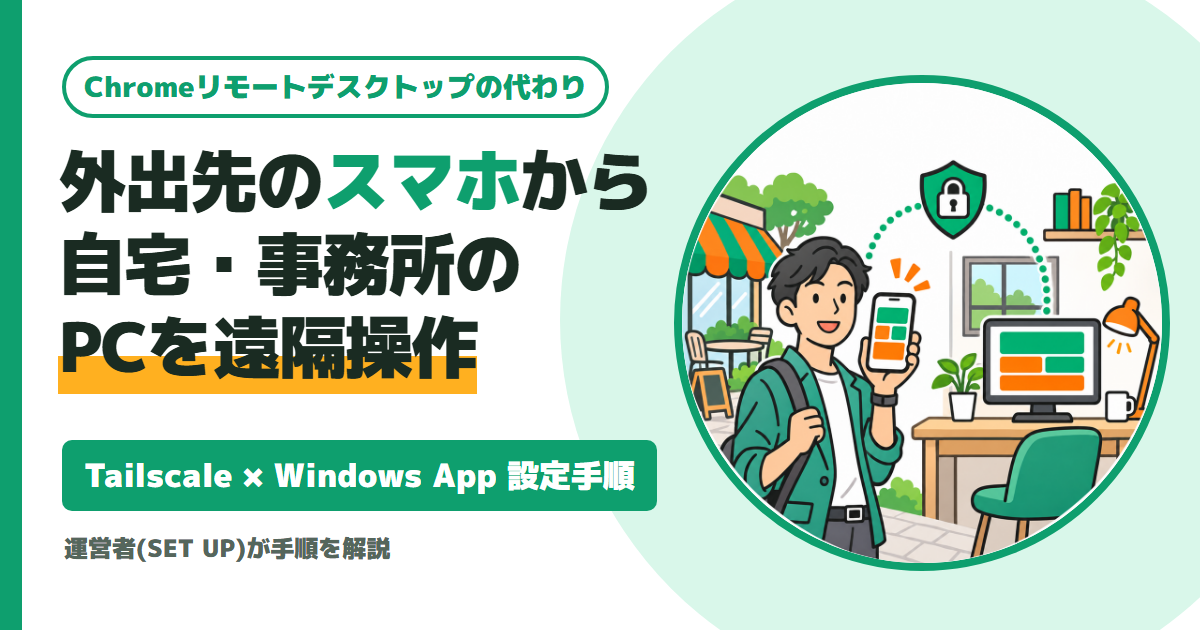
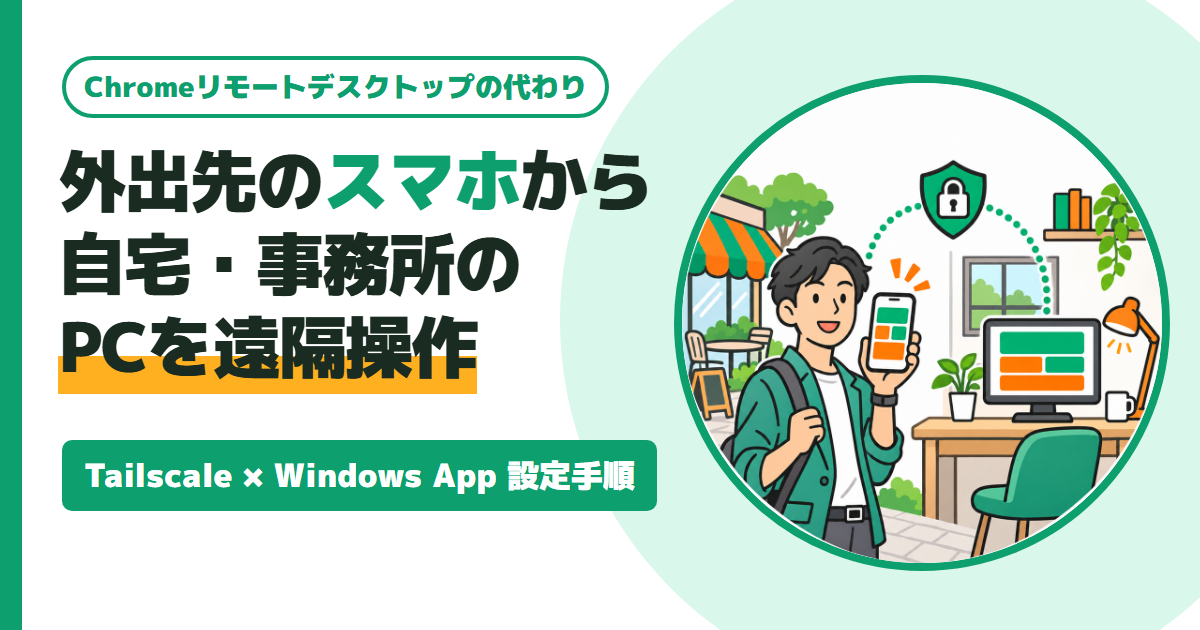
column: 0016 サムネから「運営者(SET UP)が手順を解説」の行を消す（altも合わせる）

Changed region(s): [[0.0308, 0.8444, 0.3392, 0.9048]]

diff --git a/column/0016/index.html b/column/0016/index.html
@@ -194,7 +194,7 @@ height="0" width="0" style="display:none;visibility:hidden"></iframe></noscript>
       </div>
       <h1>スマホからPCを遠隔操作する方法｜iPhoneでChromeリモートデスクトップの代わり</h1>
       <figure class="eyecatch">
-        <img src="ogp.png" width="1200" height="630" alt="Chromeリモートデスクトップの代わり 外出先のスマホから自宅・事務所のPCを遠隔操作 Tailscale × Windows App 設定手順 運営者(SET UP)が手順を解説" decoding="async">
+        <img src="ogp.png" width="1200" height="630" alt="Chromeリモートデスクトップの代わり 外出先のスマホから自宅・事務所のPCを遠隔操作 Tailscale × Windows App 設定手順" decoding="async">
       </figure>
       <p class="art-lead">外出先のスマホから、自宅や事務所のPCを操作したい。そう思ってChrome リモート デスクトップを入れたものの、iPhoneではアプリが見つからず、ブラウザでも使えませんでした。代わりに使っているのが、VPNのTailscaleとMicrosoftのWindows Appの組み合わせです。この記事では、その手順と注意点を、Google・Microsoft・Tailscaleの公式情報(2026年11月22日に確認)とあわせてまとめます。</p>
     </div>
